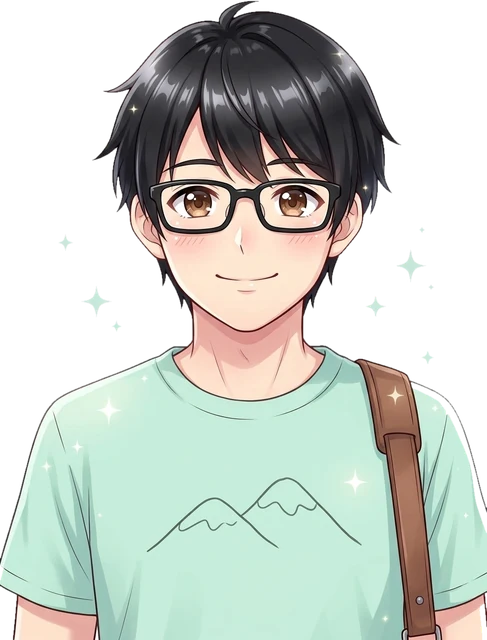
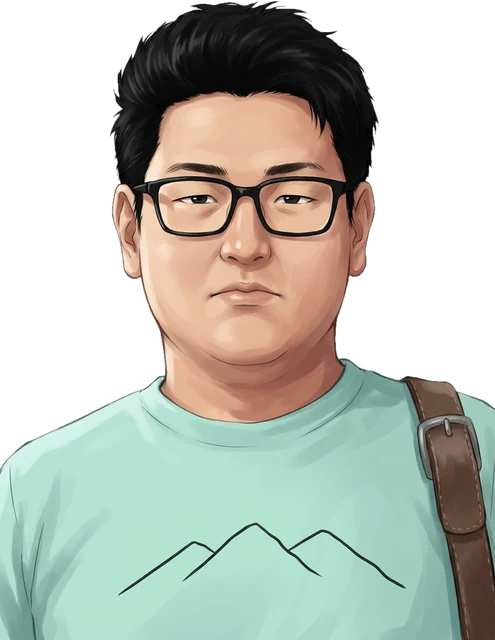
Ending portrait: closer likeness
The first portrait was idealized beyond recognition; regenerated keeping
the face shape, hair, glasses, expression and build from the reference.

Claude-Session: https://claude.ai/code/session_01NU6W9Yh3jMUNh65aQZcTxw

diff --git a/docs/GDD.md b/docs/GDD.md
@@ -99,6 +99,6 @@
 かけらは依頼タブに「や・ゆ・た・う・ろ・ひ」の順で並ぶ（入手順。並べ替えると名前になる）。実在の人物の写真や団体名は使わない。
 
 ### 正体の絵（`assets/heroines/yuya_bust_normal.webp`）
-依頼者から提供された本人の写真を、髪型・眼鏡・服の色の参考としてだけGeminiに渡し、ヒロインと同じ画風のアニメ調で生成した（写真そのものはリポジトリに入れない。シャツの文字・団体名は描かせない）。
+依頼者から提供された本人の写真をGeminiに渡し、本人と分かるように顔の形・髪・眼鏡・表情・体格を写真に忠実に保ったアニメ調（やや写実寄り）で生成した。最初の版は理想化しすぎて「似ていない」となったため作り直した（写真そのものはリポジトリに入れない。シャツの文字・団体名は描かせない）。
 - エンディング：名前が現れると、その後ろに彼の姿が浮かぶ（横画面では右側）
 - クリア後：左上の主人公アイコンが兜の騎士から彼の顔に変わる（`drawPortrait`）
